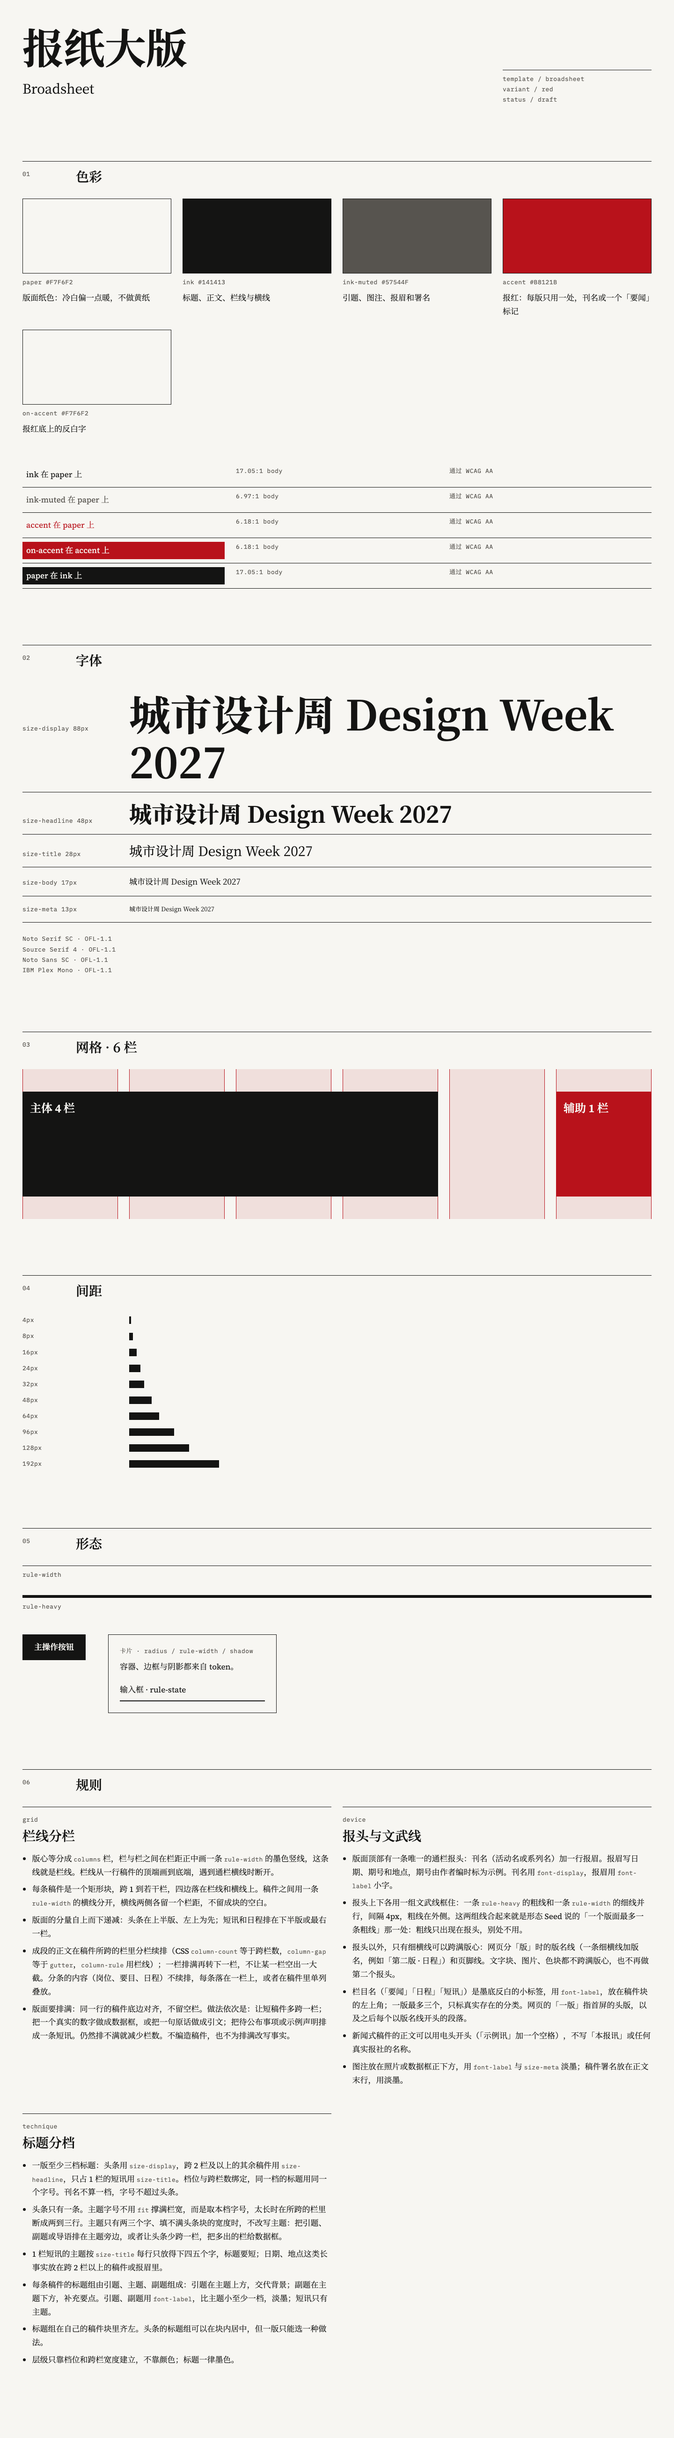
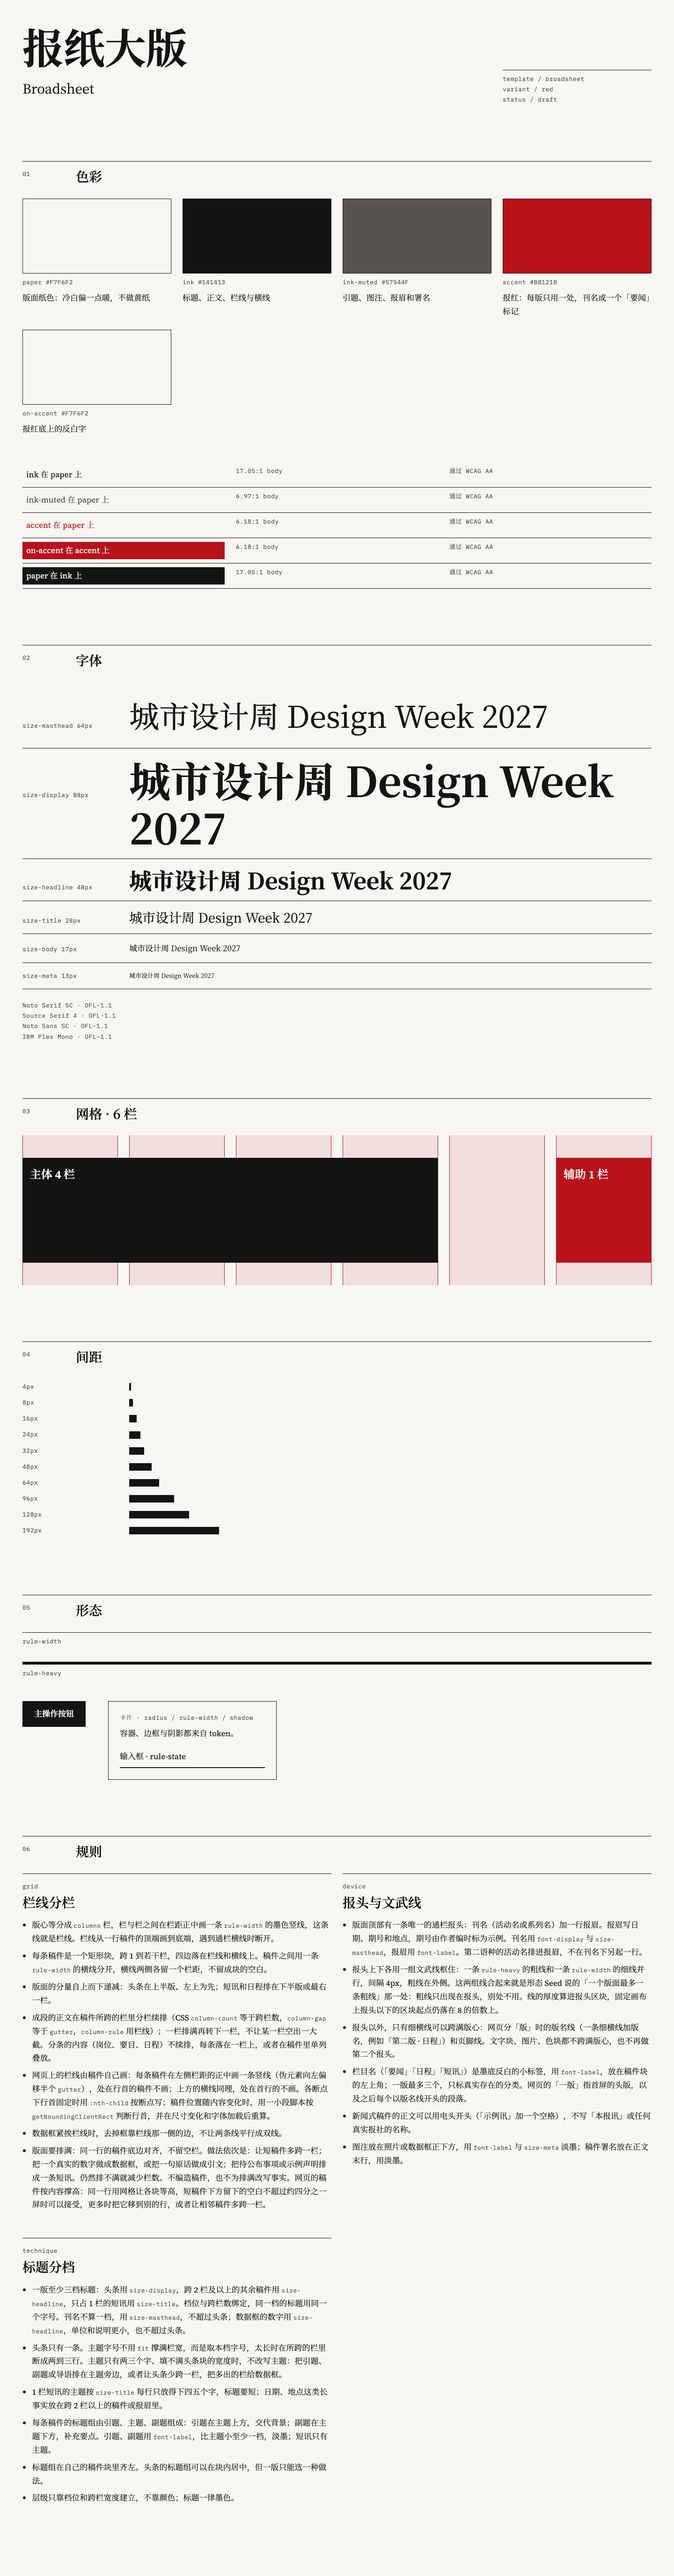
fix(musekit): settle the broadsheet rerun's gaps and see focus drawn as a thicker border
The rerun of the broadsheet blind test kept none of the first run's
gaps and raised finer ones, now settled in the style:

- The masthead has its own size, size-masthead, overridden per scene;
  the masthead and the figure in a data box are measured against the
  lead with max-size checks.
- Narrow columns go ragged below 10 characters a line, so justified
  text still happens on the 12-character web column.
- Web column rules are drawn by each story at half a gutter, skipping
  the row start; a data box drops the edge that would double a column
  rule; on the web a short story may leave up to a quarter screen.
- The second-language name goes into the dateline; a one-page site's
  section links mark no current item; the web lead spans 3-4 columns.

inspect_page now counts a change of border width as a visible focus,
so a field that thickens its border on focus is no longer reported.

diff --git a/plugins/musekit/skills/musepool/library/templates/broadsheet.md b/plugins/musekit/skills/musepool/library/templates/broadsheet.md
@@ -26,6 +26,7 @@ overrides:
     columns: 5
     margin: 48px
     gutter: 24px
+    size-masthead: 88px
     size-display: 132px
     size-headline: 64px
     size-title: 36px
@@ -37,6 +38,7 @@ overrides:
         max-width: 1100px
         columns: 4
         margin: 32px
+        size-masthead: 56px
         size-display: 72px
         size-headline: 40px
         size-title: 24px
@@ -45,6 +47,7 @@ overrides:
         columns: 2
         gutter: 16px
         margin: 16px
+        size-masthead: 36px
         size-display: 48px
         size-headline: 30px
         size-title: 20px
@@ -69,7 +72,7 @@ exemplars: [u0w5k7uv, 8fwk52fi, 50nz9co2]
 3. **报头通栏**：版面顶部有一条唯一的通栏，放刊名和报眉，上下用文武线框住。报头以外，只有细横线可以跨满版心。
 
 - **网格**：每条稿件是一个矩形块，四边落在栏线和横线上。版面的分量自上而下递减：头条在上半版，左上为先；短讯和日程排在下半版或最右一栏。版面要排满，不留成块的空白。
-- **对齐**：正文两端对齐，中文段首缩进两字；每行少于约 12 个汉字的窄栏改为齐左。标题组在自己的稿件块里齐左；头条的标题组可以在块内居中，但一版只能选一种做法。时间、数字按位对齐。
+- **对齐**：正文两端对齐，中文段首缩进两字；每行少于 10 个汉字的窄栏改为齐左。标题组在自己的稿件块里齐左；头条的标题组可以在块内居中，但一版只能选一种做法。时间、数字按位对齐。
 - **层级**：每条稿件的标题组由引题、主题、副题组成。引题和副题用小一档的黑体淡墨，主题用粗宋。层级只靠字号的档位和跨栏宽度建立，不靠颜色。字重两档：标题粗，正文常规。
 - **留白**：版面里几乎没有成块的空白。稿件之间靠横线加栏距分开，标题组与正文之间留一行的距离；只有报头上下可以宽一些。
 - **色彩**：纸是冷白偏一点暖，墨近黑。报红只用一处：海报和网页都是整件作品一处，刊名或者一个「要闻」标记。标题、链接、按钮都是墨色。
@@ -84,7 +87,7 @@ exemplars: [u0w5k7uv, 8fwk52fi, 50nz9co2]
 海报、封面、社媒图。覆盖值按 1080 × 1440 的画布给出（`canvas-width`、`canvas-height`），版心 5 栏。
 
 - 海报就是一张头版。自上而下三段：报头约占画面高度的八分之一到七分之一；头条区约占上半版；其余是两到四条小稿件。
-- 报头的刊名放活动名或系列名，居中，字号在 `size-headline` 和 `size-display` 之间，不用 `fit` 撑满版心，也不超过头条；报眉写日期、地点和期号（作者编的期号标为示例），两端对齐排成一行。日期和地点在点开全屏时要读得出，所以报眉用 `size-body`，不用 `size-meta`。
+- 报头的刊名放活动名或系列名，居中，用 `size-masthead`，不用 `fit` 撑满版心；报眉写日期、地点和期号（作者编的期号标为示例），两端对齐排成一行。日期和地点在点开全屏时要读得出，所以报眉用 `size-body`，不用 `size-meta`。
 - 头条跨 3–4 栏，主题用 `size-display`，配引题和副题；剩下的 1–2 栏放一个数据框、一段引文或一张带图注的照片，与头条顶端对齐。
 - 下半版的稿件每条跨 1–2 栏：跨 2 栏的主题用 `size-headline`，1 栏的用 `size-title`，凑出三档。真实事实拆成独立的稿件（时间地点、主办、主题陈述），各占一块；日程、项目这类由作者编的内容标为示例。内容少时减到 3–4 栏或让稿件跨更多栏，不硬编稿件来填满。
 - 缩略图（约 0.25 倍）里要能读出刊名和头条主题；栏线和横线在缩略图里会变淡，版面的分栏靠稿件块的边缘也看得出来。
@@ -93,8 +96,8 @@ exemplars: [u0w5k7uv, 8fwk52fi, 50nz9co2]
 
 官网、落地页、通讯与周报页。参照视口 1440 × 900px，版心 6 栏；平板 4 栏，手机 2 栏。
 
-- 首屏是头版：报头加一行版目导航，下面是跨 4 栏的头条和跨 2 栏的要目或短讯。刊名居中，字号在 `size-headline` 和 `size-display` 之间，不超过头条；报眉用 `size-body` 的 `font-label`，两端对齐，1100px 以下可以排成居中的两行。头条块里放主题、引题、副题、一段导语和主操作（墨底纸字的直角按钮）。首屏要能读到活动名、日期、地点和主操作。
-- 导航是报眉下方的一行版目（例如「要闻 · 日程 · 报名 · 到访」），用 `font-label`，当前项用 `rule-state` 的下划线；它不吸顶，不另做一条通栏的导航栏。
+- 首屏是头版：报头加一行版目导航，下面是跨 3–4 栏的头条和其余栏里的要目或短讯。刊名居中，用 `size-masthead`；报眉用 `size-body` 的 `font-label`，两端对齐，1100px 以下可以排成居中的两行。头条块里放主题、引题、副题、一段导语和主操作（墨底纸字的直角按钮）。首屏要能读到活动名、日期、地点和主操作。
+- 导航是报眉下方的一行版目（例如「要闻 · 日程 · 报名 · 到访」），用 `font-label`；它不吸顶，不另做一条通栏的导航栏。多页站点的当前页用 `rule-state` 的下划线；单页站点的版目是页内锚点，不标当前项。
 - 首屏以下按「版」组织：每版用一条跨版心的细横线加版名开头（「第二版 · 日程」），版内的稿件照样落在栏线上，每版的各列底边对齐。每版至少有两档标题；不要把一版做成一个全宽的单栏区块。
 - 日程排成跨 3–4 栏的表，日期和时间用 `font-mono` 按位对齐，行与行之间用细横线；旁边的栏放与日程相关的短讯或数据框。
 - 报名版：表单块跨 3–4 栏，旁边 2 栏放报名说明和岗位短讯；状态按文法的「状态」一条。

diff --git a/plugins/musekit/skills/musepool/library/seeds/grid/column-rules.md b/plugins/musekit/skills/musepool/library/seeds/grid/column-rules.md
@@ -30,7 +30,9 @@ tokens:
 - 每条稿件是一个矩形块，跨 1 到若干栏，四边落在栏线和横线上。稿件之间用一条 `rule-width` 的横线分开，横线两侧各留一个栏距，不留成块的空白。
 - 版面的分量自上而下递减：头条在上半版、左上为先；短讯和日程排在下半版或最右一栏。
 - 成段的正文在稿件所跨的栏里分栏续排（CSS `column-count` 等于跨栏数，`column-gap` 等于 `gutter`，`column-rule` 用栏线）；一栏排满再转下一栏，不让某一栏空出一大截。分条的内容（岗位、要目、日程）不续排，每条落在一栏上，或者在稿件里单列叠放。
-- 版面要排满：同一行的稿件底边对齐，不留空栏。做法依次是：让短稿件多跨一栏；把一个真实的数字做成数据框，或把一句原话做成引文；把待公布事项或示例声明排成一条短讯。仍然排不满就减少栏数。不编造稿件，也不为排满改写事实。
+- 网页上的栏线由稿件自己画：每条稿件在左侧栏距的正中画一条竖线（伪元素向左偏移半个 `gutter`），处在行首的稿件不画；上方的横线同理，处在首行的不画。各断点下行首固定时用 `:nth-child` 按断点写；稿件位置随内容变化时，用一小段脚本按 `getBoundingClientRect` 判断行首，并在尺寸变化和字体加载后重算。
+- 数据框紧挨栏线时，去掉框靠栏线那一侧的边，不让两条线平行成双线。
+- 版面要排满：同一行的稿件底边对齐，不留空栏。做法依次是：让短稿件多跨一栏；把一个真实的数字做成数据框，或把一句原话做成引文；把待公布事项或示例声明排成一条短讯。仍然排不满就减少栏数。不编造稿件，也不为排满改写事实。网页的稿件按内容撑高：同一行用网格让各块等高，短稿件下方留下的空白不超过约四分之一屏时可以接受，更多时把它移到别的行，或者让相邻稿件多跨一栏。
 
 ## 适用与边界
 

diff --git a/plugins/musekit/skills/musepool/library/seeds/device/masthead-and-rules.md b/plugins/musekit/skills/musepool/library/seeds/device/masthead-and-rules.md
@@ -13,8 +13,8 @@ conflicts: [sticker-label, seal-and-vertical]
 
 ## 要点
 
-- 版面顶部有一条唯一的通栏报头：刊名（活动名或系列名）加一行报眉。报眉写日期、期号和地点，期号由作者编时标为示例。刊名用 `font-display`，报眉用 `font-label` 小字。
-- 报头上下各用一组文武线框住：一条 `rule-heavy` 的粗线和一条 `rule-width` 的细线并行，间隔 4px，粗线在外侧。这两组线合起来就是形态 Seed 说的「一个版面最多一条粗线」那一处：粗线只出现在报头，别处不用。
+- 版面顶部有一条唯一的通栏报头：刊名（活动名或系列名）加一行报眉。报眉写日期、期号和地点，期号由作者编时标为示例。刊名用 `font-display` 与 `size-masthead`，报眉用 `font-label`。第二语种的活动名排进报眉，不在刊名下另起一行。
+- 报头上下各用一组文武线框住：一条 `rule-heavy` 的粗线和一条 `rule-width` 的细线并行，间隔 4px，粗线在外侧。这两组线合起来就是形态 Seed 说的「一个版面最多一条粗线」那一处：粗线只出现在报头，别处不用。线的厚度算进报头区块，固定画布上报头以下的区块起点仍落在 8 的倍数上。
 - 报头以外，只有细横线可以跨满版心：网页分「版」时的版名线（一条细横线加版名，例如「第二版 · 日程」）和页脚线。文字块、图片、色块都不跨满版心，也不再做第二个报头。
 - 栏目名（「要闻」「日程」「短讯」）是墨底反白的小标签，用 `font-label`，放在稿件块的左上角；一版最多三个，只标真实存在的分类。网页的「一版」指首屏的头版，以及之后每个以版名线开头的段落。
 - 新闻式稿件的正文可以用电头开头（「示例讯」加一个空格），不写「本报讯」或任何真实报社的名称。

diff --git a/plugins/musekit/skills/musepool/library/seeds/technique/headline-tiers.md b/plugins/musekit/skills/musepool/library/seeds/technique/headline-tiers.md
@@ -14,13 +14,25 @@ tokens:
   ratio-display:
     value: 4
     role: 头条主题与正文的最小字号比
+checks:
+  roles:
+    lead: 头条的主题
+    masthead: 报头里的刊名
+    figure: 数据框里的大数字
+  rules:
+    - kind: max-size
+      item: masthead
+      than: lead
+    - kind: max-size
+      item: figure
+      than: lead
 ---
 
 # 标题分档
 
 ## 要点
 
-- 一版至少三档标题：头条用 `size-display`，跨 2 栏及以上的其余稿件用 `size-headline`，只占 1 栏的短讯用 `size-title`。档位与跨栏数绑定，同一档的标题用同一个字号。刊名不算一档，字号不超过头条。
+- 一版至少三档标题：头条用 `size-display`，跨 2 栏及以上的其余稿件用 `size-headline`，只占 1 栏的短讯用 `size-title`。档位与跨栏数绑定，同一档的标题用同一个字号。刊名不算一档，用 `size-masthead`，不超过头条；数据框的数字用 `size-headline`，单位和说明更小，也不超过头条。
 - 头条只有一条。主题字号不用 `fit` 撑满栏宽，而是取本档字号，太长时在所跨的栏里断成两到三行。主题只有两三个字、填不满头条块的宽度时，不改写主题：把引题、副题或导语排在主题旁边，或者让头条少跨一栏，把多出的栏给数据框。
 - 1 栏短讯的主题按 `size-title` 每行只放得下四五个字，标题要短；日期、地点这类长事实放在跨 2 栏以上的稿件或报眉里。
 - 每条稿件的标题组由引题、主题、副题组成：引题在主题上方，交代背景；副题在主题下方，补充要点。引题、副题用 `font-label`，比主题小至少一档，淡墨；短讯只有主题。

diff --git a/plugins/musekit/skills/musepool/library/seeds/typography/news-serif.md b/plugins/musekit/skills/musepool/library/seeds/typography/news-serif.md
@@ -29,6 +29,9 @@ tokens:
     value: 400
   weight-strong:
     value: 600
+  size-masthead:
+    value: 64px
+    role: 报头里的刊名，不超过头条主题
   size-display:
     value: 88px
   size-headline:
@@ -66,4 +69,4 @@ tokens:
 
 ## 适用与边界
 
-窄栏（每行少于约 12 个汉字）里两端对齐会被避头尾的标点和长西文单词撑出大空隙：这样的栏里正文改为齐左，宽栏保持两端对齐；西文段落另开 `hyphens: auto` 并设 `lang`。宋体在 12px 以下发虚，`size-meta` 只给期号、图片署名这类短标注。
+每行少于 10 个汉字的窄栏里，两端对齐会被避头尾的标点和长西文单词撑出大空隙：这样的栏里正文改为齐左，10 个汉字及以上保持两端对齐；西文段落另开 `hyphens: auto` 并设 `lang`。宋体在 12px 以下发虚，`size-meta` 只给期号、图片署名和网页上的示例声明这类短标注。
